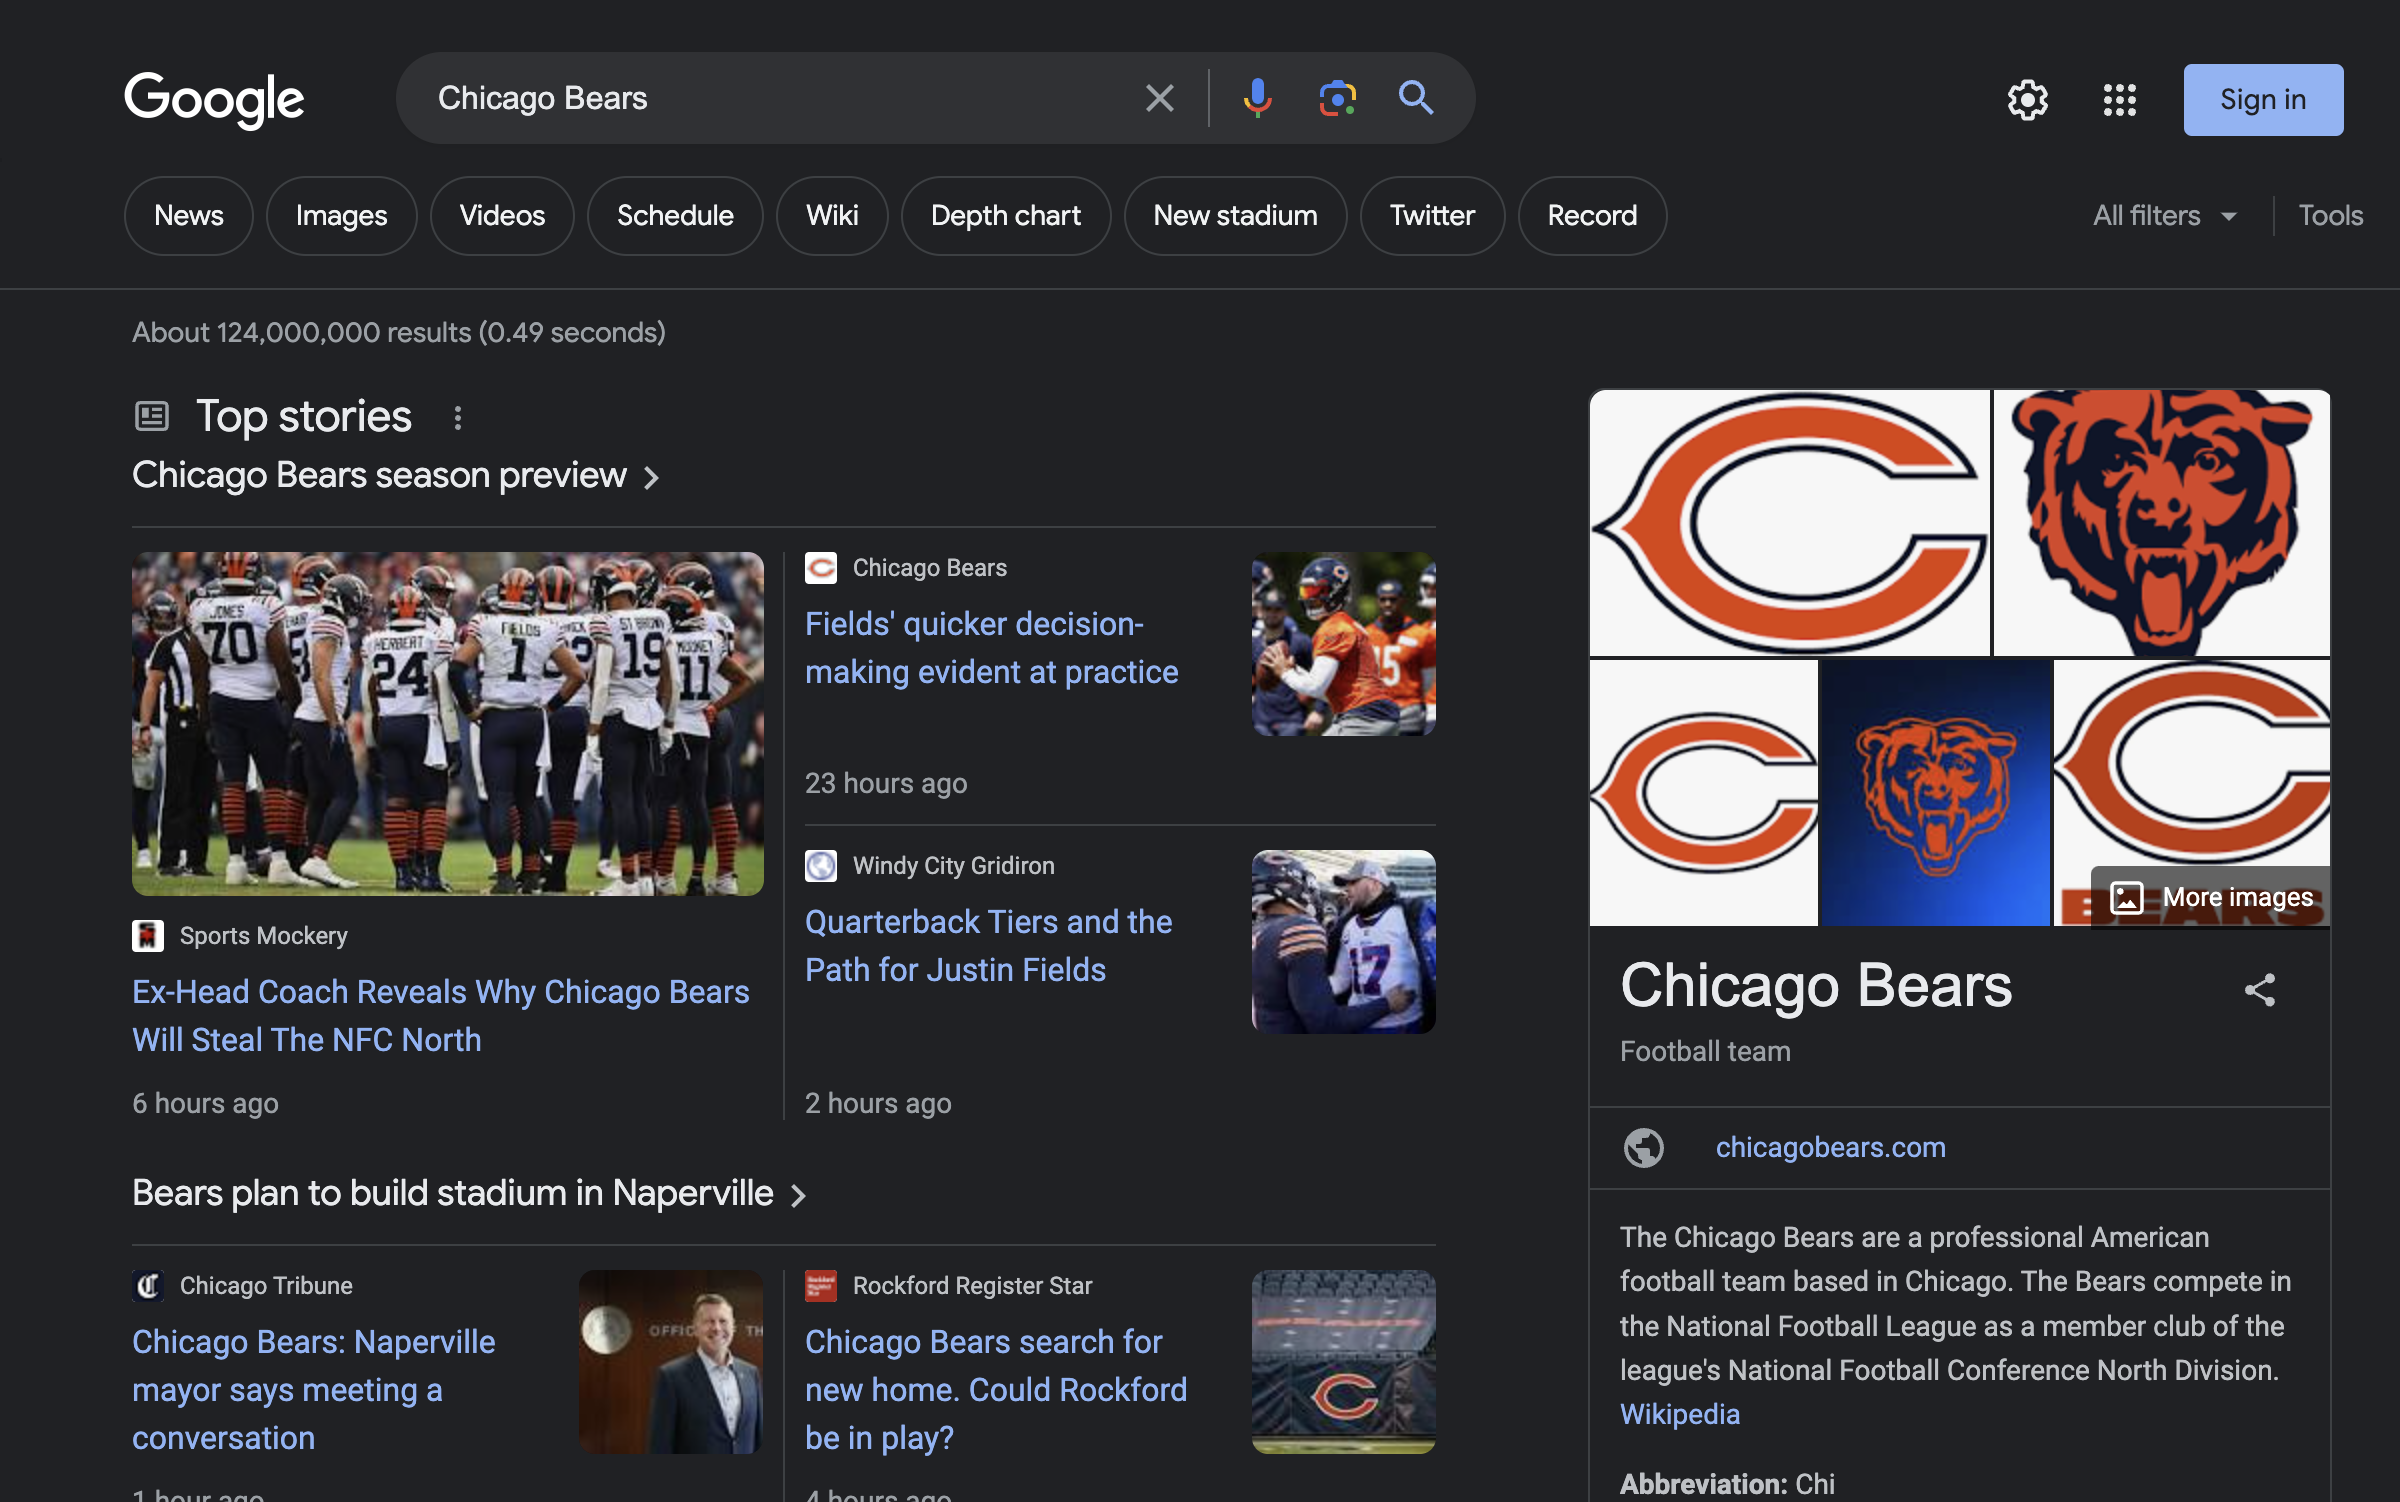
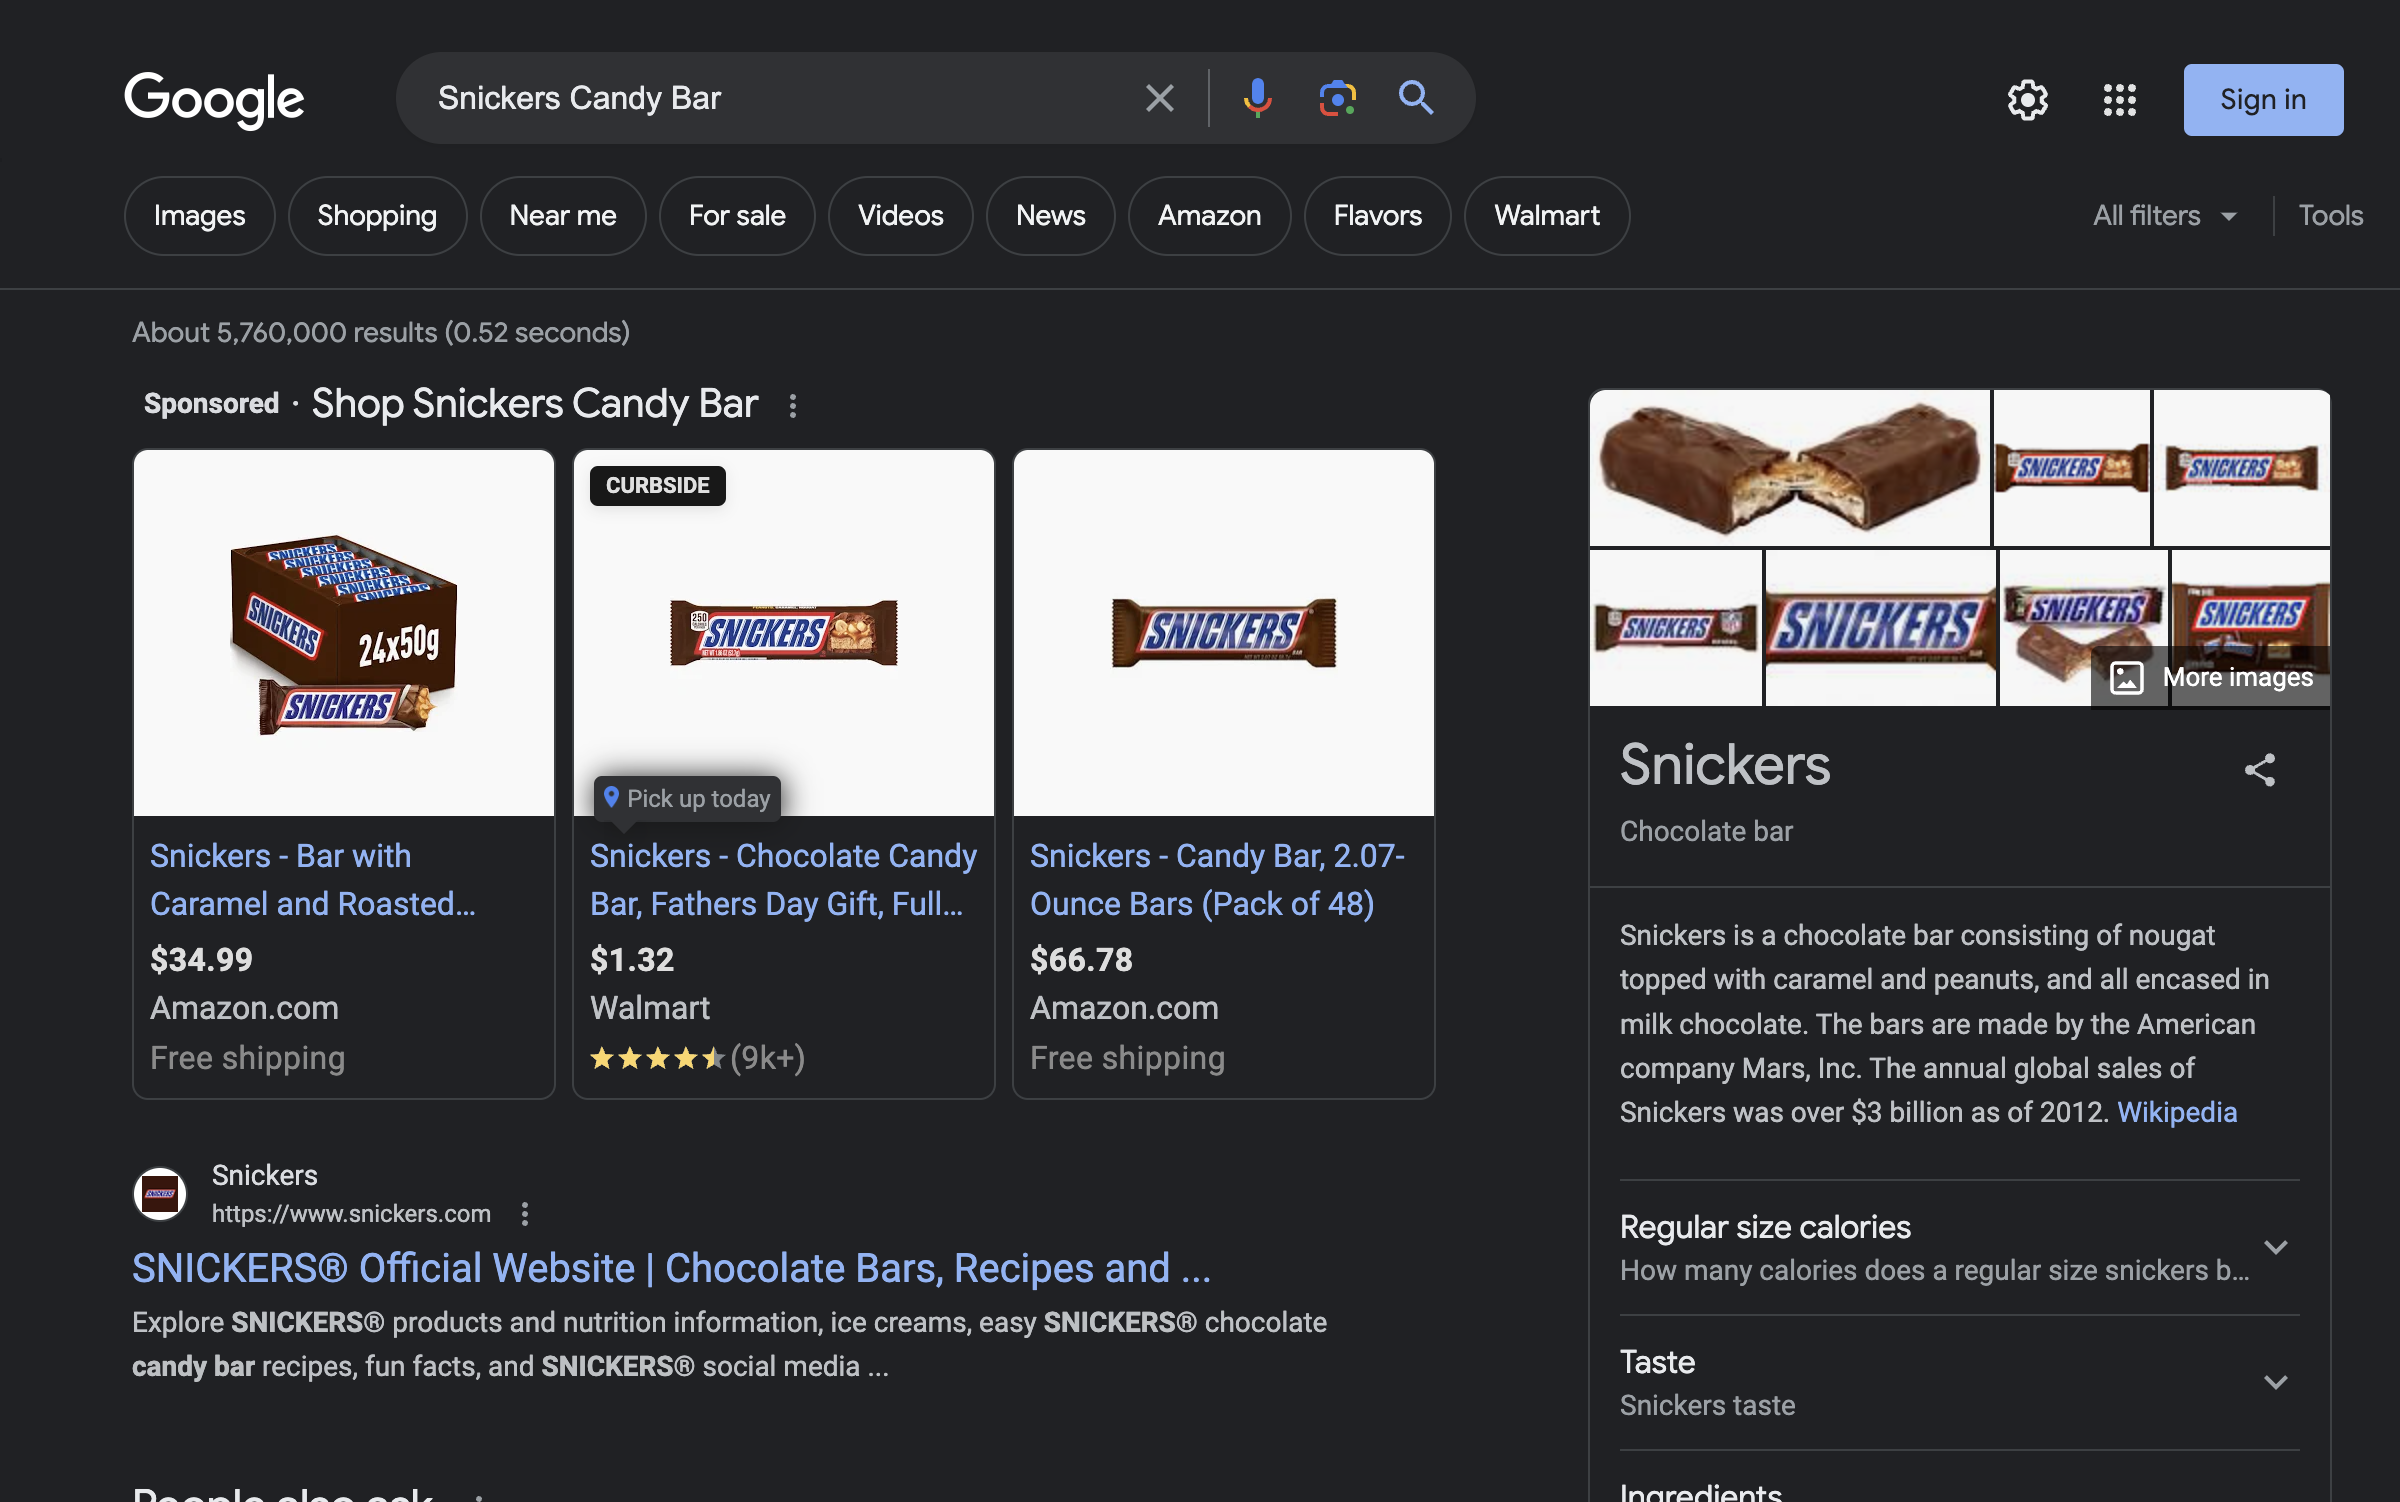
homework completed for 2.8.2

diff --git a/2.8/googleWBP.test.ts b/2.8/googleWBP.test.ts
@@ -5,9 +5,9 @@ const google = new Google()
 
 test('do a search', async () => {
     await google.navigate()
-    await google.search('Chicago Bears')
+    await google.search('Snickers Candy Bar')
     let text = await google.getResults()
-    expect(text).toContain('Chicago Bears')
+    expect(text).toContain('Snickers Candy Bar')
     await fs.writeFile(`${__dirname}/google.png`,
      await google.driver.takeScreenshot(), "base64",
      (e) => {
